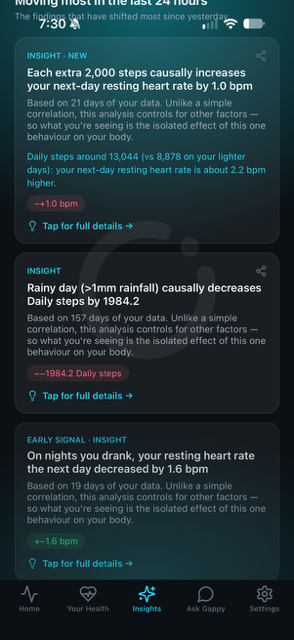
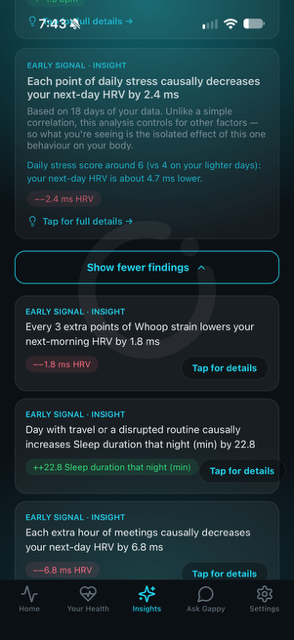
WHOOP page: HRV finding and the privacy section that names WHOOP

diff --git a/the-gap/frontend/app/whoop-integration/page.tsx b/the-gap/frontend/app/whoop-integration/page.tsx
@@ -26,7 +26,7 @@ const SHOTS = [
   {
     file: "4-findings.png",
     title: "Findings: what affects this member",
-    text: "The core of the app. Patterns are tested against the member's own history and explained in plain language, labelled as confirmed findings or early signals. It is for general wellness only and gives no medical advice.",
+    text: "The core of the app. Patterns are tested against the member's own history and explained in plain language, labelled as confirmed findings or early signals. For example, \"every 3 extra points of Whoop strain lowers your next-morning HRV by 1.8 ms\". It is for general wellness only and gives no medical advice.",
   },
   {
     file: "5-settings.png",
@@ -35,8 +35,8 @@ const SHOTS = [
   },
   {
     file: "6-privacy.png",
-    title: "Privacy policy",
-    text: "Our privacy policy, updated 19 October 2026, available in the app and at app.causalme.com/privacy. It names WHOOP as a service the member may connect and explains what we collect and who handles it.",
+    title: "Privacy policy: connected services",
+    text: "Our privacy policy, updated 19 October 2026, available in the app and at app.causalme.com/privacy. This section names WHOOP as one of the services a member may choose to link, and says what is collected from it and why.",
   },
 ];
 
